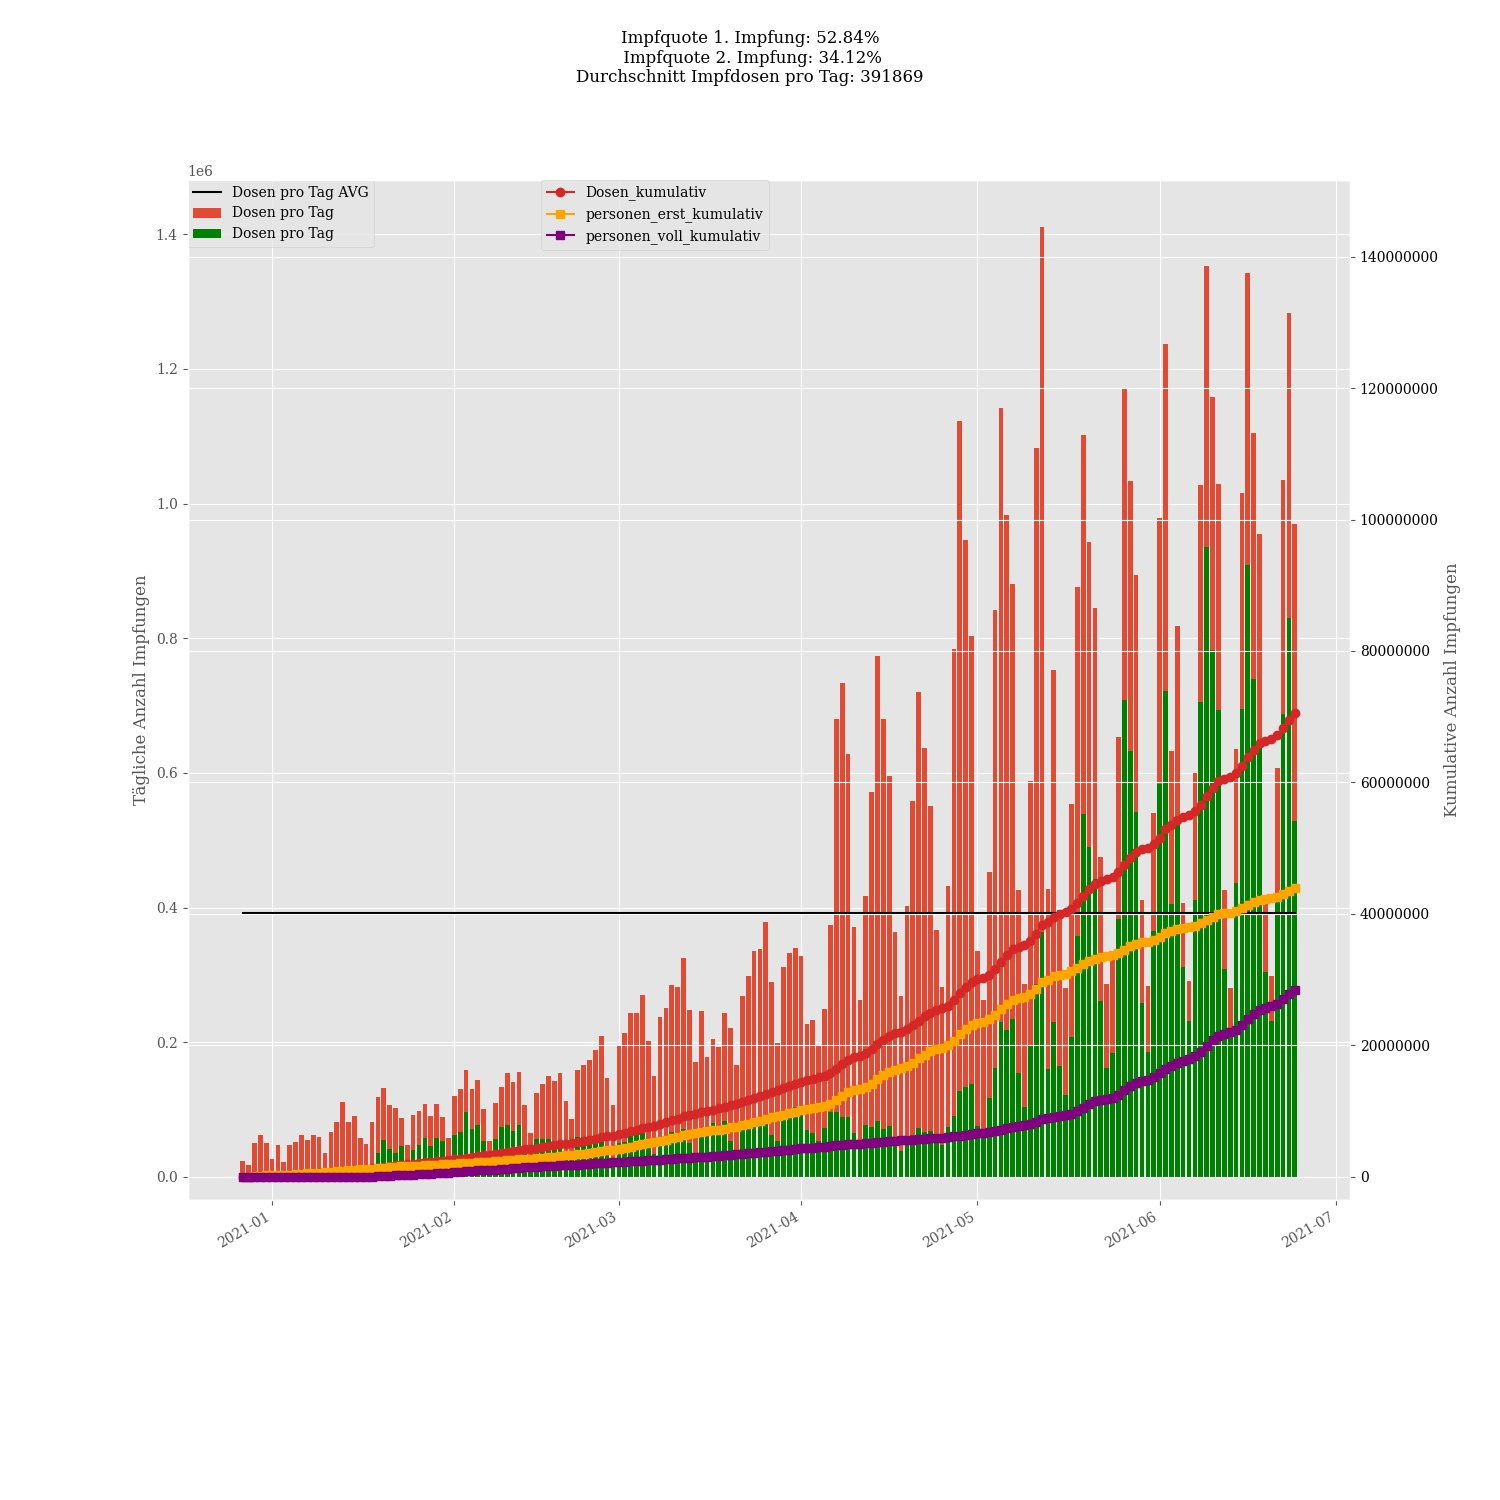
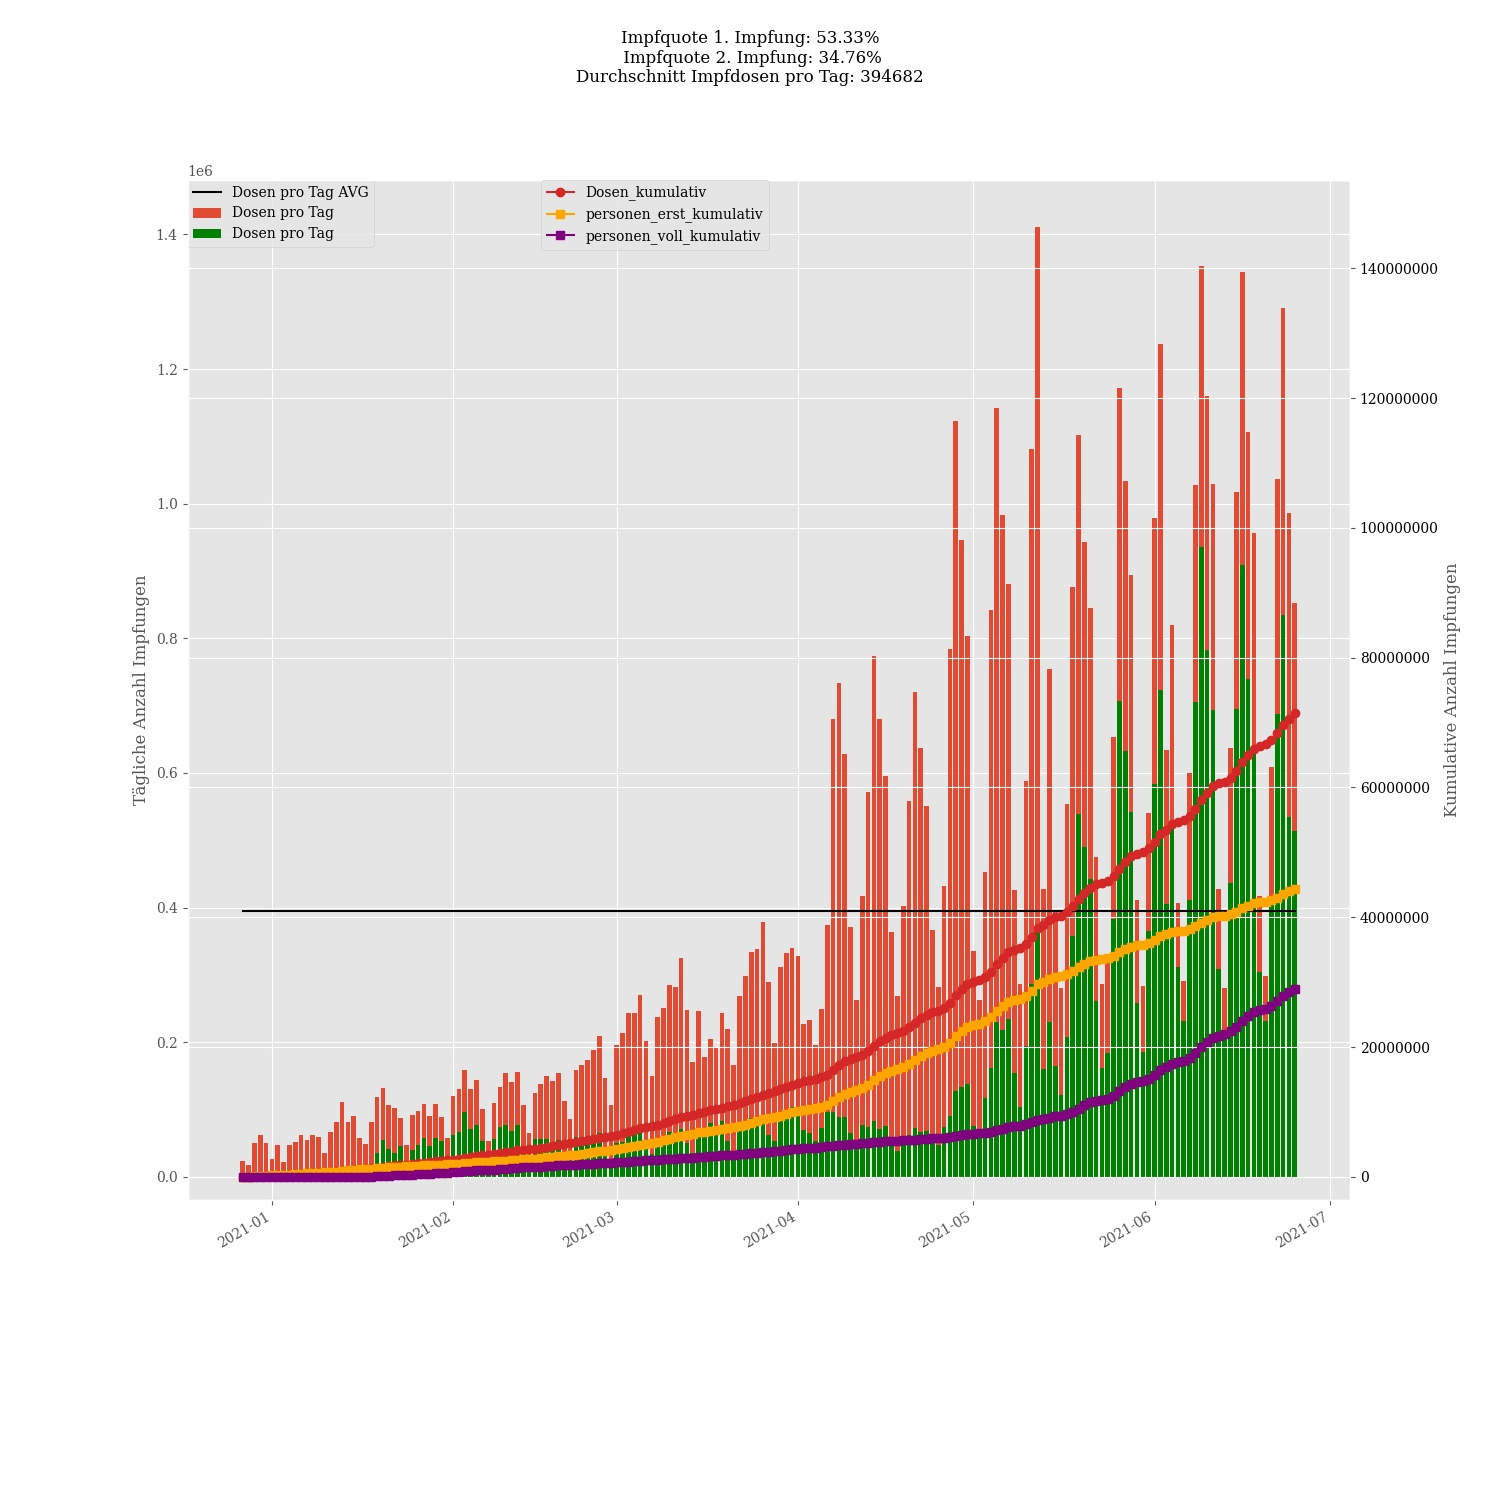
Crontab commit

diff --git a/Readme.md b/Readme.md
@@ -1,19 +1,19 @@
-# Corona vaccine Germany - Stand 2021-06-24
+# Corona vaccine Germany - Stand 2021-06-25
 ## Dashboard by [Simon Hamacher](https://www.shamacher.eu)
 ## Impfstoffe Übersicht
 **Impfstoffhersteller** | **verimpfte Dosen**
 -------- | :--------:
-Biontech | 51849532
-Moderna | 5972802
-Astrazeneca | 10908605
+Biontech | 52532396
+Moderna | 6048357
+Astrazeneca | 11014754
 
 
 ## Quoten
-**Total Verimpfte Dosen:** | |68730939&nbsp;
+**Total Verimpfte Dosen:** | |69595507&nbsp;
 -------- | :--------:| :--------:
-**Erst-Impfquote** | **52.84** %| **43958788** Personen
-**Voll-Impfquote** | **34.12** %| **28383081** Personen
-**Imfungen Durchschnitt** | |**391868.91** pro Tag 
+**Erst-Impfquote** | **53.33** %| **44363821** Personen
+**Voll-Impfquote** | **34.76** %| **28915700** Personen
+**Imfungen Durchschnitt** | |**394682.40** pro Tag 
 ## Bundesländer
 **Bundesland** | **Prozent von gelieferten Imfdosen verimpft**
 -------- | :--------:
